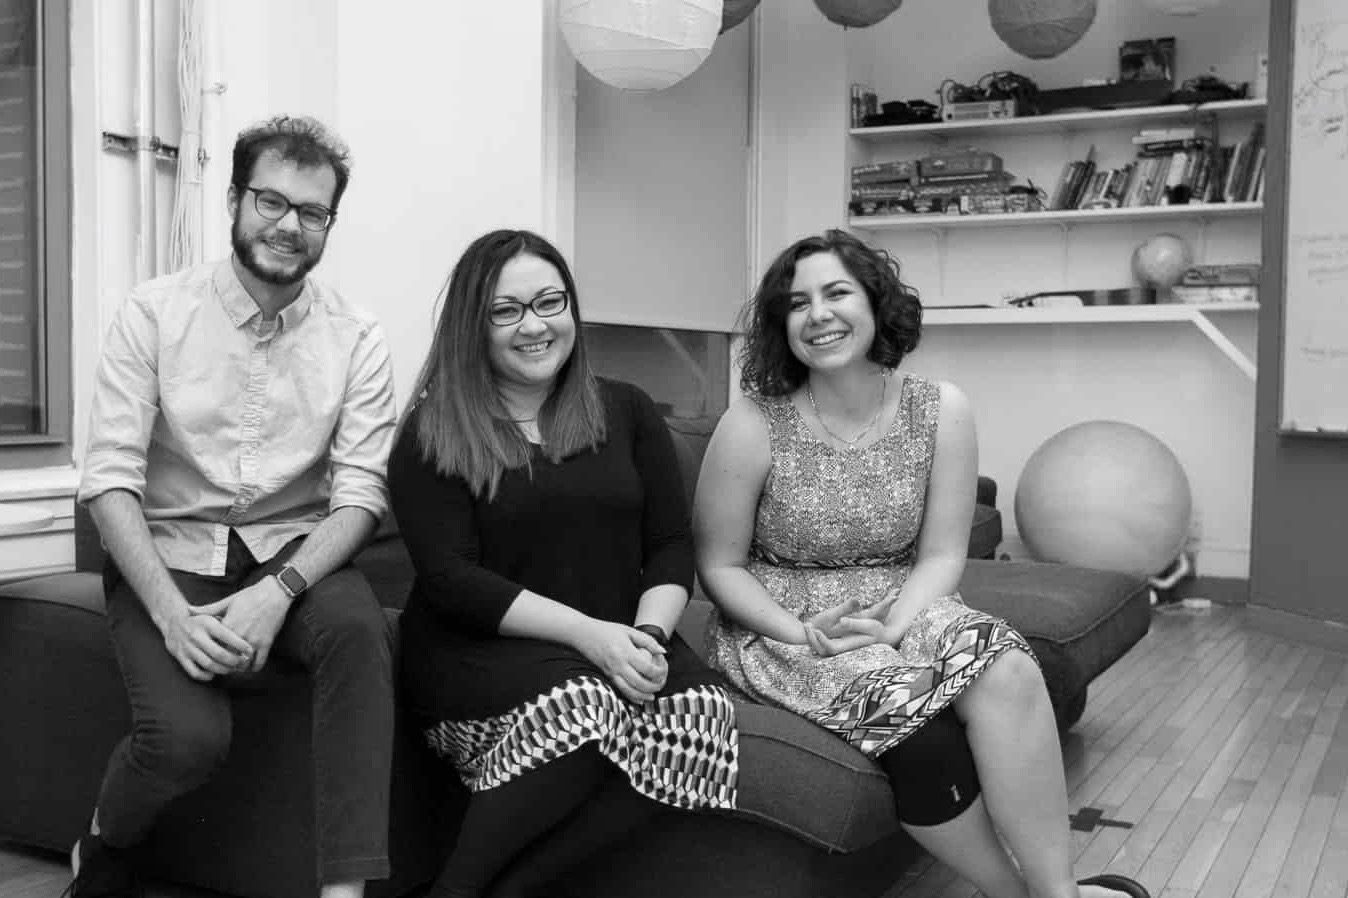
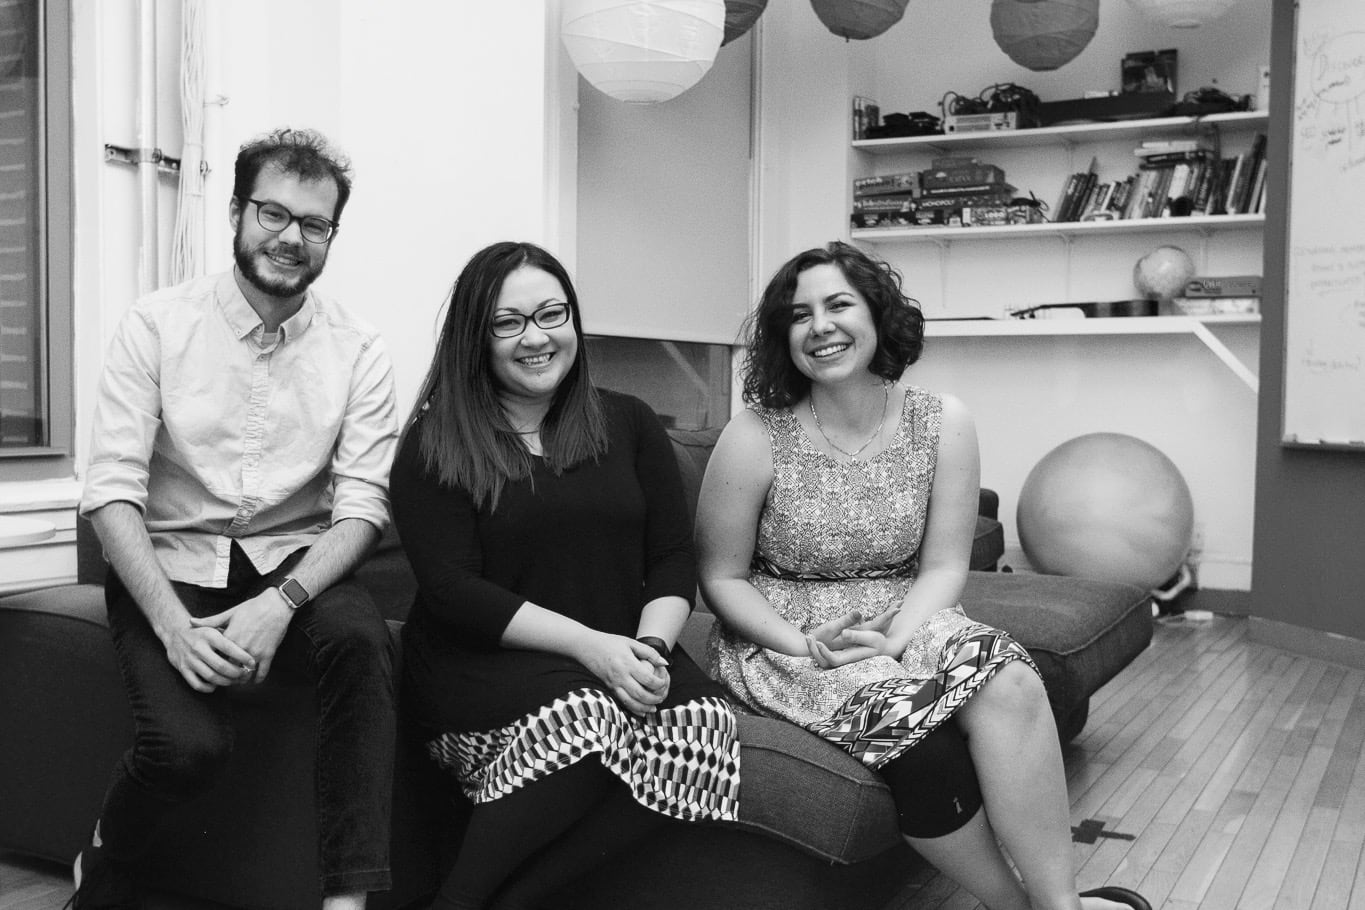
tweak photos and talks section background

diff --git a/2017-august/index.html b/2017-august/index.html
@@ -17,7 +17,6 @@
 .background-repeat-no-repeat{background-repeat:no-repeat}
 .bg-cover{background-size:cover}
 .bg-gray1{background-color:#444}
-.bg-gray3{background-color:#eee}
 .bg-gray{background-color:#222}
 .bg-tomato{background-color:tomato}
 .bg-white{background-color:white}
@@ -123,4 +122,4 @@
 @media screen and (min-width:96em){.xl-fs6{font-size:48px}}</style>
 
 
-<body class="x0"><header class="Basic-header gray bg-tomato pt1 pb1"><div class="mauto pl4 pr4 max-width-1024px"><h4 class="lh-1p125 fw-700 fs2 m0"></h4><h2 class="lh-1p125 fw-700 fs6 m0"></h2><h3 class="lh-1p125 fw-700 letter-spacing-0p125em text-transform-uppercase fs5 m0"></h3><p class="pt2 m0"></p><div class="pt3 pb3"><div><a type="1" href="http://designsystems.nyc" class="hover-c c-inherit dib fw-700 pb2 pt2 text-decoration-none mr3 mt1 mb1">Design Systems Coalition NYC</a></div></div></div></header><section class="SplitRight_2_5-section bg-white pt5 pb5"><div class="mauto pl4 pr4 max-width-1024px"><div class="align-items-center ml-16px mr-16px df flex-wrap-wrap"><div class="sm-order-2 pl3 pr3 pt2 pb2 sm-w-40P w-100P"><div class="position-relative h0 p0 pb60P overflow-hidden"><iframe src="https://www.youtube.com/embed/1wYojWen6NU" class="position-absolute w-100P h-100P top-0 bottom-0 left-0 border-0"></iframe></div></div><div class="pl3 pr3 pt2 pb2 w-100P sm-w-60P"><h4 class="lh-1p125 fw-700 mb2 fs2 md-fs3 m0"></h4><h2 class="lh-1p125 fw-700 mb3 fs5 md-fs6 xl-fs6 m0">Empowering product growth with design systems</h2><h3 class="lh-1p125 fw-700 letter-spacing-0p125em text-transform-uppercase mb3 fs3 md-fs3 xl-fs3 m0">August 17 @ DoSomething</h3><p class="fs3 m0">Featuring talks by Una Kravets from Digital Ocean, Luke Patton from DoSomething, and Jina Anne—consultant and community builder.</p></div></div></div></section><section class="Basic-cards gray bg-gray3 pt5 pb3"><div class="mauto pl4 pr4 max-width-1024px"><h2 class="lh-1p125 fw-700 fs5 md-fs6 xl-fs6 m0"></h2><h3 class="lh-1p125 fw-700 letter-spacing-0p125em text-transform-uppercase mb1 fs3 md-fs3 xl-fs3 m0">Talks</h3><p class="m0"></p><div class="ml-16px mr-16px mt3 mb3 df flex-wrap-wrap"><div class="pl3 pr3 mb4 w-100P sm-w-100P md-w-Infinitypx lg-w-33p33333333333333P"><a href="https://youtu.be/D5JjLcP2Kw0" class="db text-decoration-none c-inherit"><div class="w-100P"><div class="w-100P mb2 db h0 pb56p25P background-repeat-no-repeat bg-cover bp-center" style="background-image:url(assets/2017-08-DSC-DoSomething-6899.jpg);"></div><h4 class="fs1 lh-1p125 fw-700 m0">Scaling Products with Design Systems</h4><h2 class="fs3 lh-1p125 fw-700 m0">Luke Patton</h2><h3 class="fs2 lh-1p125 fw-700 letter-spacing-0p125em text-transform-uppercase m0"></h3><p class="fs1 m0"></p><span is="span" className="cyan text-decoration-none" _css="[object Object]" css="[object Object]" _style="[object Object]"></span></div></a></div><div class="pl3 pr3 mb4 w-100P sm-w-100P md-w-Infinitypx lg-w-33p33333333333333P"><a href="https://youtu.be/yPQrcYDXS1o" class="db text-decoration-none c-inherit"><div class="w-100P"><div class="w-100P mb2 db h0 pb56p25P background-repeat-no-repeat bg-cover bp-center" style="background-image:url(assets/2017-08-DSC-DoSomething-7013.jpg);"></div><h4 class="fs1 lh-1p125 fw-700 m0">Why Design Systems Fail</h4><h2 class="fs3 lh-1p125 fw-700 m0">Una Kravets</h2><h3 class="fs2 lh-1p125 fw-700 letter-spacing-0p125em text-transform-uppercase m0"></h3><p class="fs1 m0"></p><span class="cyan text-decoration-none"></span></div></a></div><div class="pl3 pr3 mb4 w-100P sm-w-100P md-w-Infinitypx lg-w-33p33333333333333P"><a href="https://youtu.be/xlxqbf4s8Tk" class="db text-decoration-none c-inherit"><div class="w-100P"><div class="w-100P mb2 db h0 pb56p25P background-repeat-no-repeat bg-cover bp-center" style="background-image:url(assets/2017-08-DSC-DoSomething-7230.jpg);"></div><h4 class="fs1 lh-1p125 fw-700 m0">Design Systems Are For People</h4><h2 class="fs3 lh-1p125 fw-700 m0">Jina Anne</h2><h3 class="fs2 lh-1p125 fw-700 letter-spacing-0p125em text-transform-uppercase m0"></h3><p class="fs1 m0"></p><span class="cyan text-decoration-none"></span></div></a></div></div></div></section><section class="Center-section pt5 pb3" id="photos"><div class="mauto pl4 pr4 max-width-1024px"><div class="text-align-center md-order-2 pb3"><div class="mauto db w-100P h0 pb60P background-repeat-no-repeat bg-cover bp-center" style="background-image:url(assets/2017-08-DSC-DoSomething-7739.jpg);"></div></div><div class="text-align-center pl3 pr3"><h4 class="text-align-center lh-1p125 fw-700 mb3 fs2 md-fs3 m0"></h4><h2 class="text-align-center lh-1p125 fw-700 mb3 fs6 m0"></h2><h3 class="text-align-center lh-1p125 fw-700 letter-spacing-0p125em text-transform-uppercase mb3 fs3 md-fs3 xl-fs3 m0"></h3><p class="mb3 m0">Photography by Tom Takigayama</p></div></div></section><section class="Full-gallery"><div class="pl2 pr2 df flex-wrap-wrap"><div class="pl2 pr2 mb3 w-100P sm-w-100P md-w-50P lg-w-50P"><div class="w-100P db h0 pb75P background-repeat-no-repeat bg-cover bp-center" style="background-image:url(assets/2017-08-DSC-DoSomething-6924.jpg);"></div></div><div class="pl2 pr2 mb3 w-100P sm-w-100P md-w-50P lg-w-50P"><div class="w-100P db h0 pb75P background-repeat-no-repeat bg-cover bp-center" style="background-image:url(assets/2017-08-DSC-DoSomething-7277.jpg);"></div></div></div></section><section class="Full-gallery"><div class="pl2 pr2 df flex-wrap-wrap"><div class="pl2 pr2 mb3 w-100P sm-w-100P md-w-50P lg-w-50P"><div class="w-100P db h0 pb75P background-repeat-no-repeat bg-cover bp-center" style="background-image:url(assets/2017-08-DSC-DoSomething-7629.jpg);"></div></div><div class="pl2 pr2 mb3 w-100P sm-w-100P md-w-50P lg-w-50P"><div class="w-100P db h0 pb75P background-repeat-no-repeat bg-cover bp-center" style="background-image:url(assets/2017-08-DSC-DoSomething-6768.jpg);"></div></div></div></section><section class="Full-gallery"><div class="pl2 pr2 df flex-wrap-wrap"><div class="pl2 pr2 mb3 w-Infinitypx sm-w-Infinitypx md-w-Infinitypx lg-w-33p33333333333333P"><img src="assets/2017-08-DSC-DoSomething-6980.jpg" class="w-100P db max-width-100P h-auto"/></div><div class="pl2 pr2 mb3 w-Infinitypx sm-w-Infinitypx md-w-Infinitypx lg-w-33p33333333333333P"><img src="assets/2017-08-DSC-DoSomething-6892.jpg" class="w-100P db max-width-100P h-auto"/></div><div class="pl2 pr2 mb3 w-Infinitypx sm-w-Infinitypx md-w-Infinitypx lg-w-33p33333333333333P"><img src="assets/2017-08-DSC-DoSomething-7365.jpg" class="w-100P db max-width-100P h-auto"/></div></div></section><section class="Full-gallery"><div class="pl2 pr2 df flex-wrap-wrap"><div class="pl2 pr2 mb3 w-100P sm-w-100P md-w-33p33333333333333P lg-w-33p33333333333333P"><div class="w-100P db h0 pb71p42857142857143P background-repeat-no-repeat bg-cover bp-center" style="background-image:url(assets/2017-08-DSC-DoSomething-6723.jpg);"></div></div><div class="pl2 pr2 mb3 w-100P sm-w-100P md-w-33p33333333333333P lg-w-33p33333333333333P"><div class="w-100P db h0 pb71p42857142857143P background-repeat-no-repeat bg-cover bp-center" style="background-image:url(assets/2017-08-DSC-DoSomething-6718.jpg);"></div></div><div class="pl2 pr2 mb3 w-100P sm-w-100P md-w-33p33333333333333P lg-w-33p33333333333333P"><div class="w-100P db h0 pb71p42857142857143P background-repeat-no-repeat bg-cover bp-center" style="background-image:url(assets/2017-08-DSC-DoSomething-6613.jpg);"></div></div></div></section><section class="Full-gallery"><div class="pl2 pr2 df flex-wrap-wrap"><div class="pl2 pr2 mb3 w-100P sm-w-100P md-w-50P lg-w-50P"><div class="w-100P db h0 pb75P background-repeat-no-repeat bg-cover bp-center" style="background-image:url(assets/2017-08-DSC-DoSomething-6982.jpg);"></div></div><div class="pl2 pr2 mb3 w-100P sm-w-100P md-w-50P lg-w-50P"><div class="w-100P db h0 pb75P background-repeat-no-repeat bg-cover bp-center" style="background-image:url(assets/2017-08-DSC-DoSomething-7310.jpg);"></div></div></div></section><section class="Full-gallery"><div class="pl2 pr2 df flex-wrap-wrap"><div class="pl2 pr2 mb3 w-Infinitypx sm-w-Infinitypx md-w-Infinitypx lg-w-33p33333333333333P"><img src="assets/2017-08-DSC-DoSomething-7536.jpg" class="w-100P db max-width-100P h-auto"/></div><div class="pl2 pr2 mb3 w-Infinitypx sm-w-Infinitypx md-w-Infinitypx lg-w-33p33333333333333P"><img src="assets/2017-08-DSC-DoSomething-6915.jpg" class="w-100P db max-width-100P h-auto"/></div><div class="pl2 pr2 mb3 w-Infinitypx sm-w-Infinitypx md-w-Infinitypx lg-w-33p33333333333333P"><img src="assets/2017-08-DSC-DoSomething-6859.jpg" class="w-100P db max-width-100P h-auto"/></div></div></section><section class="Full-gallery"><div class="pl2 pr2 df flex-wrap-wrap"><div class="pl2 pr2 mb3 w-50P md-w-25P"><div class="w-100P db h0 pb80P background-repeat-no-repeat bg-cover bp-center" style="background-image:url(assets/2017-08-DSC-DoSomething-6855.jpg);"></div></div><div class="pl2 pr2 mb3 w-50P md-w-25P"><div class="w-100P db h0 pb80P background-repeat-no-repeat bg-cover bp-center" style="background-image:url(assets/2017-08-DSC-DoSomething-7586.jpg);"></div></div><div class="pl2 pr2 mb3 w-50P md-w-25P"><div class="w-100P db h0 pb80P background-repeat-no-repeat bg-cover bp-center" style="background-image:url(assets/2017-08-DSC-DoSomething-7651.jpg);"></div></div><div class="pl2 pr2 mb3 w-50P md-w-25P"><div class="w-100P db h0 pb80P background-repeat-no-repeat bg-cover bp-center" style="background-image:url(assets/2017-08-DSC-DoSomething-7131.jpg);"></div></div></div></section><footer class="Basic-footer c-tomato bg-gray pt4 pb4"><div class="mauto pl4 pr4 max-width-1024px"><div class="align-items-baseline ml-8px mr-8px df flex-wrap-wrap"><div class="mrauto"><a type="1" href="https://twitter.com/nyc_dsc" class="hover-c c-inherit dib fw-700 pb2 pt2 text-decoration-none ml2 mr2 mt2 mb2">Twitter</a><a type="1" href="https://medium.com/design-systems-nyc" icon="" class="hover-c c-inherit dib fw-700 pb2 pt2 text-decoration-none ml2 mr2 mt2 mb2">Medium</a><a type="1" href="https://github.com/design-systems-coalition-NYC/meetup" class="hover-c c-inherit dib fw-700 pb2 pt2 text-decoration-none ml2 mr2 mt2 mb2">GitHub</a></div><div><a type="2" href="https://www.meetup.com/NYC-Design-Systems-Coalition/" class="bg-tomato border-0 br0 gray dib fw-700 pb2 pl24px pr24px pt2 text-align-center text-decoration-none white-space-nowrap ml2 mr2 mt2 mb2">Join us on Meetup</a></div></div><p class="fs1 mt2 m0"></p></div></footer><div class="PromoBadge-styleguide gray bg-gray1"><div class="align-items-center p2 df"><a href="http://compositor.io" class="mlauto db text-decoration-none c-inherit"><div class="align-items-center df"><p class="PromoBadge-styleguide-xp7h0p6 fs-8px fw-700 text-transform-uppercase letter-spacing-p2em mr2 m0">Built with Compositor</p><div><svg viewBox="-12 -12 24 24" width="24" height="24" vector-effect="non-scaling-stroke" class="db m0"><rect x="-12" y="-12" width="24" height="24" fill="currentcolor" rx="1" ry="1"></rect><rect x="-8" y="-4" width="16" height="8" fill="2" rx="0.5" ry="0.5"></rect><g fill="none" stroke="currentcolor" stroke-width="0.5"><path d="M -4.8 -1.8 L -1.2 1.8 M -1.2 -1.8 L -4.8 1.8"></path><path d="M 3 -2 A 2 2 0 0 0 3 2 A 2 2 0 0 0 3 -2 M 4.5 -1.5 L 1.5 1.5"></path></g></svg></div></div></a></div></div></body>
+<body class="x0"><header class="Basic-header gray bg-tomato pt1 pb1"><div class="mauto pl4 pr4 max-width-1024px"><h4 class="lh-1p125 fw-700 fs2 m0"></h4><h2 class="lh-1p125 fw-700 fs6 m0"></h2><h3 class="lh-1p125 fw-700 letter-spacing-0p125em text-transform-uppercase fs5 m0"></h3><p class="pt2 m0"></p><div class="pt3 pb3"><div><a type="1" href="http://designsystems.nyc" class="hover-c c-inherit dib fw-700 pb2 pt2 text-decoration-none mr3 mt1 mb1">Design Systems Coalition NYC</a></div></div></div></header><section class="SplitRight_2_5-section bg-white pt5 pb5"><div class="mauto pl4 pr4 max-width-1024px"><div class="align-items-center ml-16px mr-16px df flex-wrap-wrap"><div class="sm-order-2 pl3 pr3 pt2 pb2 sm-w-40P w-100P"><div class="position-relative h0 p0 pb60P overflow-hidden"><iframe src="https://www.youtube.com/embed/1wYojWen6NU" class="position-absolute w-100P h-100P top-0 bottom-0 left-0 border-0"></iframe></div></div><div class="pl3 pr3 pt2 pb2 w-100P sm-w-60P"><h4 class="lh-1p125 fw-700 mb2 fs2 md-fs3 m0"></h4><h2 class="lh-1p125 fw-700 mb3 fs5 md-fs6 xl-fs6 m0">Empowering product growth with design systems</h2><h3 class="lh-1p125 fw-700 letter-spacing-0p125em text-transform-uppercase mb3 fs3 md-fs3 xl-fs3 m0">August 17 @ DoSomething</h3><p class="fs3 m0">Featuring talks by Una Kravets from Digital Ocean, Luke Patton from DoSomething, and Jina Anne—consultant and community builder.</p></div></div></div></section><section class="Basic-cards c-white bg-gray pt5 pb3"><div class="mauto pl4 pr4 max-width-1024px"><h2 class="lh-1p125 fw-700 fs5 md-fs6 xl-fs6 m0"></h2><h3 class="lh-1p125 fw-700 letter-spacing-0p125em text-transform-uppercase mb1 fs3 md-fs3 xl-fs3 m0">Talks</h3><p class="m0"></p><div class="ml-16px mr-16px mt3 mb3 df flex-wrap-wrap"><div class="pl3 pr3 mb4 w-100P sm-w-100P md-w-Infinitypx lg-w-33p33333333333333P"><a href="https://youtu.be/D5JjLcP2Kw0" class="db text-decoration-none c-inherit"><div class="w-100P"><div class="w-100P mb2 db h0 pb56p25P background-repeat-no-repeat bg-cover bp-center" style="background-image:url(assets/2017-08-DSC-DoSomething-6899.jpg);"></div><h4 class="fs1 lh-1p125 fw-700 m0">Scaling Products with Design Systems</h4><h2 class="fs3 lh-1p125 fw-700 m0">Luke Patton</h2><h3 class="fs2 lh-1p125 fw-700 letter-spacing-0p125em text-transform-uppercase m0"></h3><p class="fs1 m0"></p><span is="span" className="cyan text-decoration-none" _css="[object Object]" css="[object Object]" _style="[object Object]"></span></div></a></div><div class="pl3 pr3 mb4 w-100P sm-w-100P md-w-Infinitypx lg-w-33p33333333333333P"><a href="https://youtu.be/yPQrcYDXS1o" class="db text-decoration-none c-inherit"><div class="w-100P"><div class="w-100P mb2 db h0 pb56p25P background-repeat-no-repeat bg-cover bp-center" style="background-image:url(assets/2017-08-DSC-DoSomething-7013.jpg);"></div><h4 class="fs1 lh-1p125 fw-700 m0">Why Design Systems Fail</h4><h2 class="fs3 lh-1p125 fw-700 m0">Una Kravets</h2><h3 class="fs2 lh-1p125 fw-700 letter-spacing-0p125em text-transform-uppercase m0"></h3><p class="fs1 m0"></p><span is="span" className="cyan text-decoration-none" _css="[object Object]" css="[object Object]" _style="[object Object]"></span></div></a></div><div class="pl3 pr3 mb4 w-100P sm-w-100P md-w-Infinitypx lg-w-33p33333333333333P"><a href="https://youtu.be/xlxqbf4s8Tk" class="db text-decoration-none c-inherit"><div class="w-100P"><div class="w-100P mb2 db h0 pb56p25P background-repeat-no-repeat bg-cover bp-center" style="background-image:url(assets/2017-08-DSC-DoSomething-7198.jpg);"></div><h4 class="fs1 lh-1p125 fw-700 m0">Design Systems Are For People</h4><h2 class="fs3 lh-1p125 fw-700 m0">Jina Anne</h2><h3 class="fs2 lh-1p125 fw-700 letter-spacing-0p125em text-transform-uppercase m0"></h3><p class="fs1 m0"></p><span is="span" className="cyan text-decoration-none" _css="[object Object]" css="[object Object]" _style="[object Object]"></span></div></a></div></div></div></section><section class="Center-section pt5 pb3" id="photos"><div class="mauto pl4 pr4 max-width-1024px"><div class="text-align-center md-order-2 pb3"><div class="mauto db w-100P h0 pb60P background-repeat-no-repeat bg-cover bp-center" style="background-image:url(assets/2017-08-DSC-DoSomething-7739.jpg);"></div></div><div class="text-align-center pl3 pr3"><h4 class="text-align-center lh-1p125 fw-700 mb3 fs2 md-fs3 m0"></h4><h2 class="text-align-center lh-1p125 fw-700 mb3 fs6 m0"></h2><h3 class="text-align-center lh-1p125 fw-700 letter-spacing-0p125em text-transform-uppercase mb3 fs3 md-fs3 xl-fs3 m0"></h3><p class="mb3 m0">Photography by Tom Takigayama</p></div></div></section><section class="Full-gallery"><div class="pl2 pr2 df flex-wrap-wrap"><div class="pl2 pr2 mb3 w-100P sm-w-100P md-w-50P lg-w-50P"><div class="w-100P db h0 pb75P background-repeat-no-repeat bg-cover bp-center" style="background-image:url(assets/2017-08-DSC-DoSomething-6924.jpg);"></div></div><div class="pl2 pr2 mb3 w-100P sm-w-100P md-w-50P lg-w-50P"><div class="w-100P db h0 pb75P background-repeat-no-repeat bg-cover bp-center" style="background-image:url(assets/2017-08-DSC-DoSomething-7277.jpg);"></div></div></div></section><section class="Full-gallery"><div class="pl2 pr2 df flex-wrap-wrap"><div class="pl2 pr2 mb3 w-100P sm-w-100P md-w-50P lg-w-50P"><div class="w-100P db h0 pb75P background-repeat-no-repeat bg-cover bp-center" style="background-image:url(assets/2017-08-DSC-DoSomething-7629.jpg);"></div></div><div class="pl2 pr2 mb3 w-100P sm-w-100P md-w-50P lg-w-50P"><div class="w-100P db h0 pb75P background-repeat-no-repeat bg-cover bp-center" style="background-image:url(assets/2017-08-DSC-DoSomething-6768.jpg);"></div></div></div></section><section class="Full-gallery"><div class="pl2 pr2 df flex-wrap-wrap"><div class="pl2 pr2 mb3 w-Infinitypx sm-w-Infinitypx md-w-Infinitypx lg-w-33p33333333333333P"><img src="assets/2017-08-DSC-DoSomething-6980.jpg" class="w-100P db max-width-100P h-auto"/></div><div class="pl2 pr2 mb3 w-Infinitypx sm-w-Infinitypx md-w-Infinitypx lg-w-33p33333333333333P"><img src="assets/2017-08-DSC-DoSomething-6892.jpg" class="w-100P db max-width-100P h-auto"/></div><div class="pl2 pr2 mb3 w-Infinitypx sm-w-Infinitypx md-w-Infinitypx lg-w-33p33333333333333P"><img src="assets/2017-08-DSC-DoSomething-7365.jpg" class="w-100P db max-width-100P h-auto"/></div></div></section><section class="Full-gallery"><div class="pl2 pr2 df flex-wrap-wrap"><div class="pl2 pr2 mb3 w-100P sm-w-100P md-w-33p33333333333333P lg-w-33p33333333333333P"><div class="w-100P db h0 pb71p42857142857143P background-repeat-no-repeat bg-cover bp-center" style="background-image:url(assets/2017-08-DSC-DoSomething-6723.jpg);"></div></div><div class="pl2 pr2 mb3 w-100P sm-w-100P md-w-33p33333333333333P lg-w-33p33333333333333P"><div class="w-100P db h0 pb71p42857142857143P background-repeat-no-repeat bg-cover bp-center" style="background-image:url(assets/2017-08-DSC-DoSomething-6718.jpg);"></div></div><div class="pl2 pr2 mb3 w-100P sm-w-100P md-w-33p33333333333333P lg-w-33p33333333333333P"><div class="w-100P db h0 pb71p42857142857143P background-repeat-no-repeat bg-cover bp-center" style="background-image:url(assets/2017-08-DSC-DoSomething-6613.jpg);"></div></div></div></section><section class="Full-gallery"><div class="pl2 pr2 df flex-wrap-wrap"><div class="pl2 pr2 mb3 w-100P sm-w-100P md-w-50P lg-w-50P"><div class="w-100P db h0 pb75P background-repeat-no-repeat bg-cover bp-center" style="background-image:url(assets/2017-08-DSC-DoSomething-6982.jpg);"></div></div><div class="pl2 pr2 mb3 w-100P sm-w-100P md-w-50P lg-w-50P"><div class="w-100P db h0 pb75P background-repeat-no-repeat bg-cover bp-center" style="background-image:url(assets/2017-08-DSC-DoSomething-7310.jpg);"></div></div></div></section><section class="Full-gallery"><div class="pl2 pr2 df flex-wrap-wrap"><div class="pl2 pr2 mb3 w-Infinitypx sm-w-Infinitypx md-w-Infinitypx lg-w-33p33333333333333P"><img src="assets/2017-08-DSC-DoSomething-7536.jpg" class="w-100P db max-width-100P h-auto"/></div><div class="pl2 pr2 mb3 w-Infinitypx sm-w-Infinitypx md-w-Infinitypx lg-w-33p33333333333333P"><img src="assets/2017-08-DSC-DoSomething-6915.jpg" class="w-100P db max-width-100P h-auto"/></div><div class="pl2 pr2 mb3 w-Infinitypx sm-w-Infinitypx md-w-Infinitypx lg-w-33p33333333333333P"><img src="assets/2017-08-DSC-DoSomething-6859.jpg" class="w-100P db max-width-100P h-auto"/></div></div></section><section class="Full-gallery"><div class="pl2 pr2 df flex-wrap-wrap"><div class="pl2 pr2 mb3 w-50P md-w-25P"><div class="w-100P db h0 pb80P background-repeat-no-repeat bg-cover bp-center" style="background-image:url(assets/2017-08-DSC-DoSomething-6855.jpg);"></div></div><div class="pl2 pr2 mb3 w-50P md-w-25P"><div class="w-100P db h0 pb80P background-repeat-no-repeat bg-cover bp-center" style="background-image:url(assets/2017-08-DSC-DoSomething-7586.jpg);"></div></div><div class="pl2 pr2 mb3 w-50P md-w-25P"><div class="w-100P db h0 pb80P background-repeat-no-repeat bg-cover bp-center" style="background-image:url(assets/2017-08-DSC-DoSomething-7651.jpg);"></div></div><div class="pl2 pr2 mb3 w-50P md-w-25P"><div class="w-100P db h0 pb80P background-repeat-no-repeat bg-cover bp-center" style="background-image:url(assets/2017-08-DSC-DoSomething-7131.jpg);"></div></div></div></section><footer class="Basic-footer c-tomato bg-gray pt4 pb4"><div class="mauto pl4 pr4 max-width-1024px"><div class="align-items-baseline ml-8px mr-8px df flex-wrap-wrap"><div class="mrauto"><a type="1" href="https://twitter.com/nyc_dsc" class="hover-c c-inherit dib fw-700 pb2 pt2 text-decoration-none ml2 mr2 mt2 mb2">Twitter</a><a type="1" href="https://medium.com/design-systems-nyc" icon="" class="hover-c c-inherit dib fw-700 pb2 pt2 text-decoration-none ml2 mr2 mt2 mb2">Medium</a><a type="1" href="https://github.com/design-systems-coalition-NYC/meetup" class="hover-c c-inherit dib fw-700 pb2 pt2 text-decoration-none ml2 mr2 mt2 mb2">GitHub</a></div><div><a type="2" href="https://www.meetup.com/NYC-Design-Systems-Coalition/" class="bg-tomato border-0 br0 gray dib fw-700 pb2 pl24px pr24px pt2 text-align-center text-decoration-none white-space-nowrap ml2 mr2 mt2 mb2">Join us on Meetup</a></div></div><p class="fs1 mt2 m0"></p></div></footer><div class="PromoBadge-styleguide gray bg-gray1"><div class="align-items-center p2 df"><a href="http://compositor.io" class="mlauto db text-decoration-none c-inherit"><div class="align-items-center df"><p class="PromoBadge-styleguide-xp7h0p6 fs-8px fw-700 text-transform-uppercase letter-spacing-p2em mr2 m0">Built with Compositor</p><div><svg viewBox="-12 -12 24 24" width="24" height="24" vector-effect="non-scaling-stroke" class="db m0"><rect x="-12" y="-12" width="24" height="24" fill="currentcolor" rx="1" ry="1"></rect><rect x="-8" y="-4" width="16" height="8" fill="2" rx="0.5" ry="0.5"></rect><g fill="none" stroke="currentcolor" stroke-width="0.5"><path d="M -4.8 -1.8 L -1.2 1.8 M -1.2 -1.8 L -4.8 1.8"></path><path d="M 3 -2 A 2 2 0 0 0 3 2 A 2 2 0 0 0 3 -2 M 4.5 -1.5 L 1.5 1.5"></path></g></svg></div></div></a></div></div></body>
